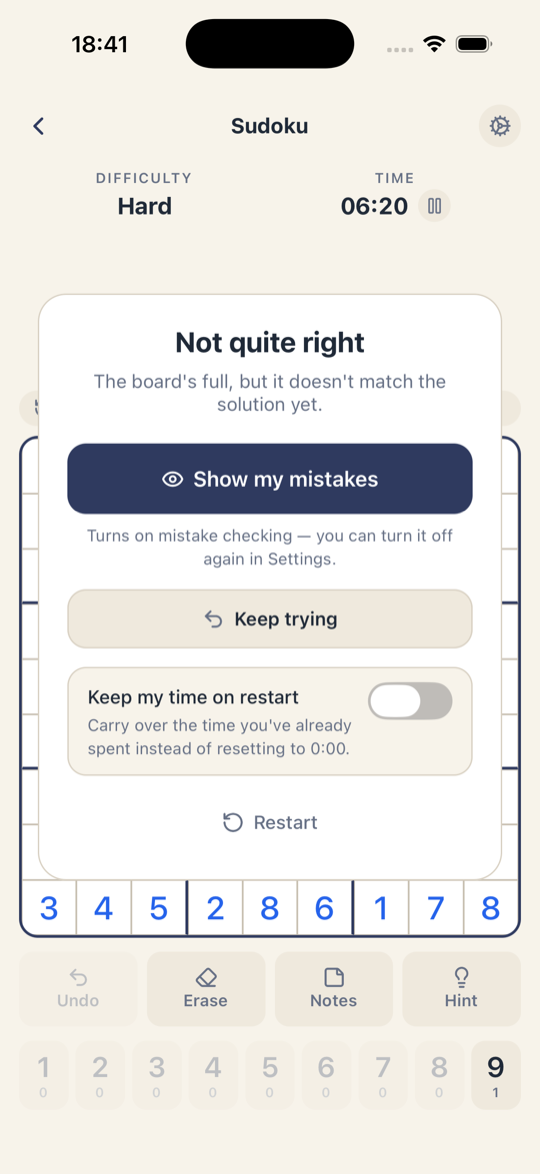
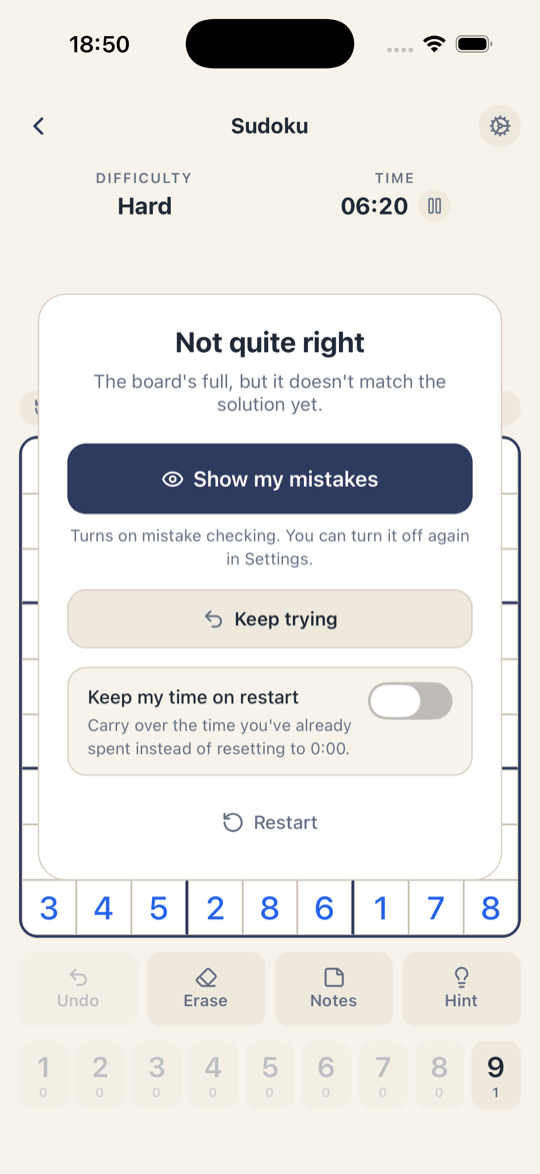
Remove em dashes from incorrect-board and cleanup-scope copy
Replace em dashes with plain sentences in the "Not quite right" modal copy
and the auto-clear scope hint, and refresh the two affected screenshots.

Changed region(s): [[0.1481, 0.4293, 0.8593, 0.4906], [0.1185, 0.0307, 0.237, 0.0613]]

diff --git a/src/app/game/[gameId].tsx b/src/app/game/[gameId].tsx
@@ -296,7 +296,7 @@ function IncorrectCompleteOverlay({
         <Text className="text-ink text-center text-2xl font-bold">Not quite right</Text>
         <Text className="text-ink-soft text-center">
           {mistakeChecking
-            ? "The board's full, but some cells don't match the solution — they're highlighted in red."
+            ? "The board's full, but some cells don't match the solution. They're highlighted in red."
             : "The board's full, but it doesn't match the solution yet."}
         </Text>
 
@@ -312,7 +312,7 @@ function IncorrectCompleteOverlay({
               <Text className="text-on-primary text-lg font-semibold">Show my mistakes</Text>
             </Pressable>
             <Text className="text-ink-soft text-center text-sm">
-              Turns on mistake checking — you can turn it off again in Settings.
+              Turns on mistake checking. You can turn it off again in Settings.
             </Text>
           </>
         )}

diff --git a/src/app/settings.tsx b/src/app/settings.tsx
@@ -78,7 +78,7 @@ const CLEANUP_SCOPE_OPTIONS: { value: NoteCleanupScope; label: string; hint: str
   {
     value: "all",
     label: "Row, column & box",
-    hint: "Standard — clear every cell the number rules out",
+    hint: "Clear every cell the number rules out (standard)",
   },
   { value: "box", label: "Box only", hint: "Clear notes only within the same 3x3 box" },
 ];